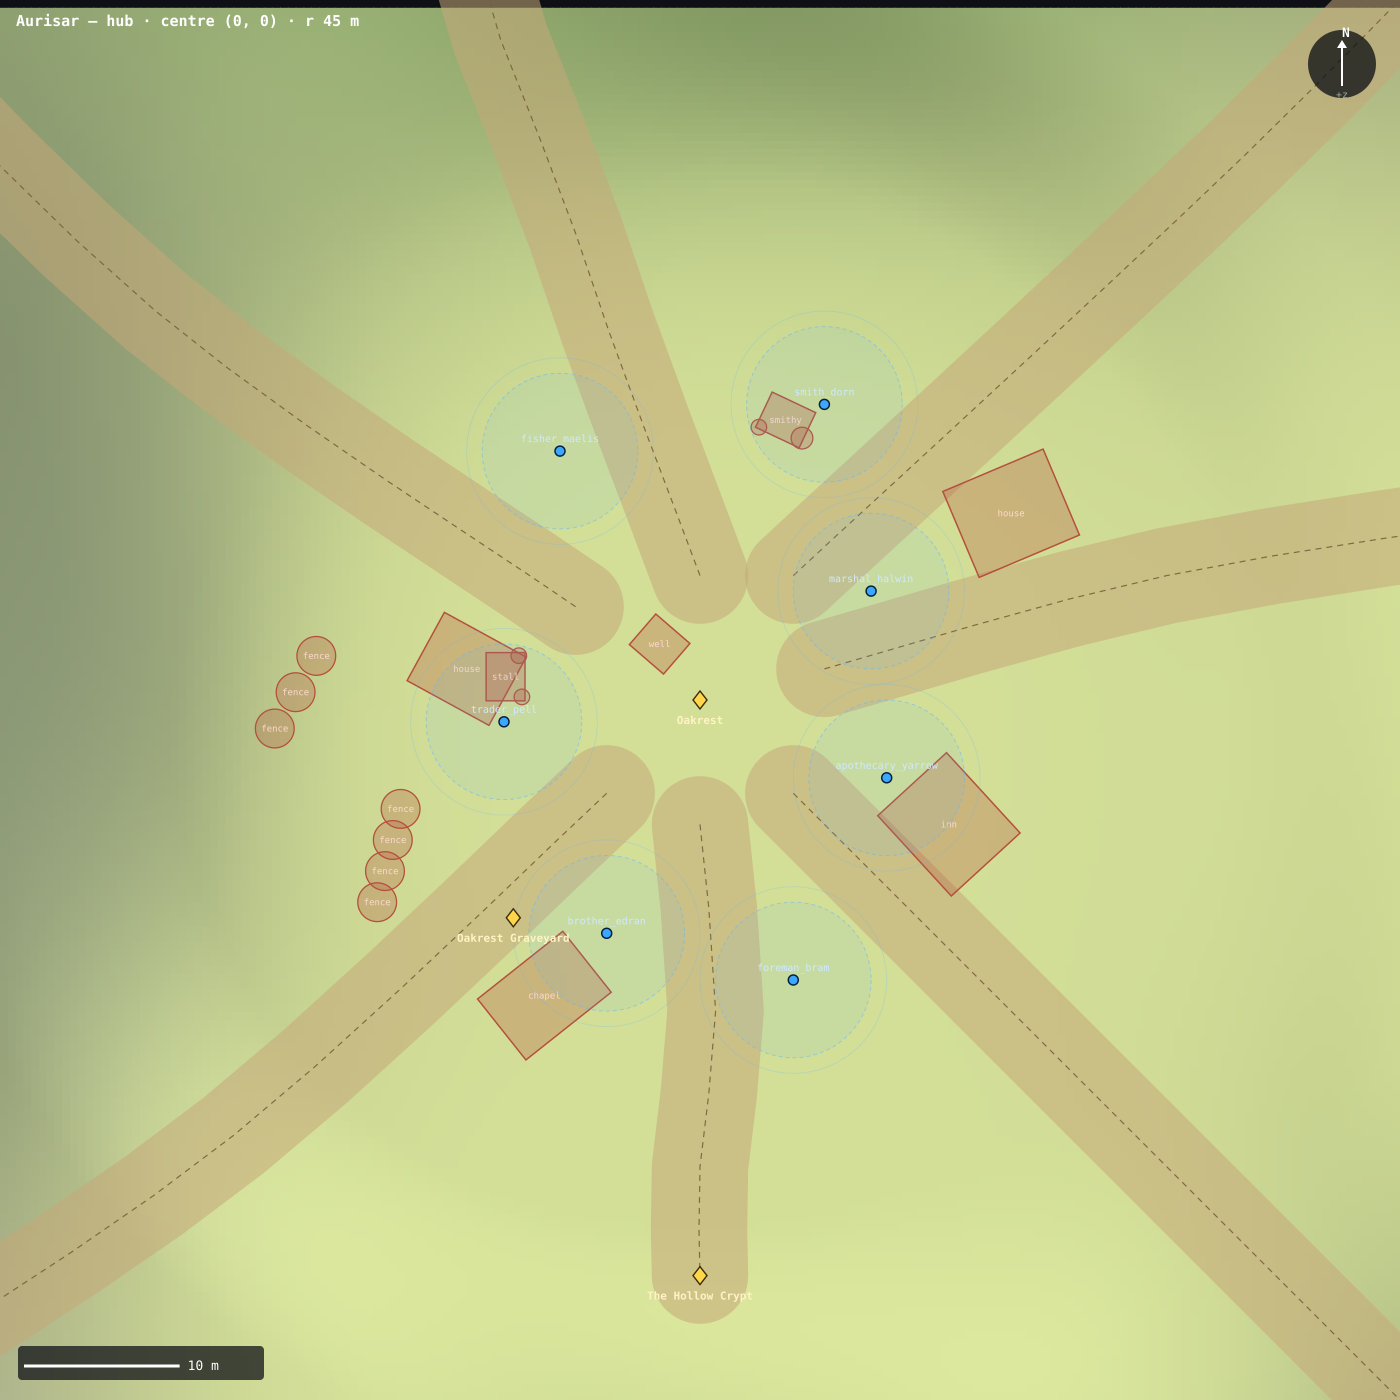
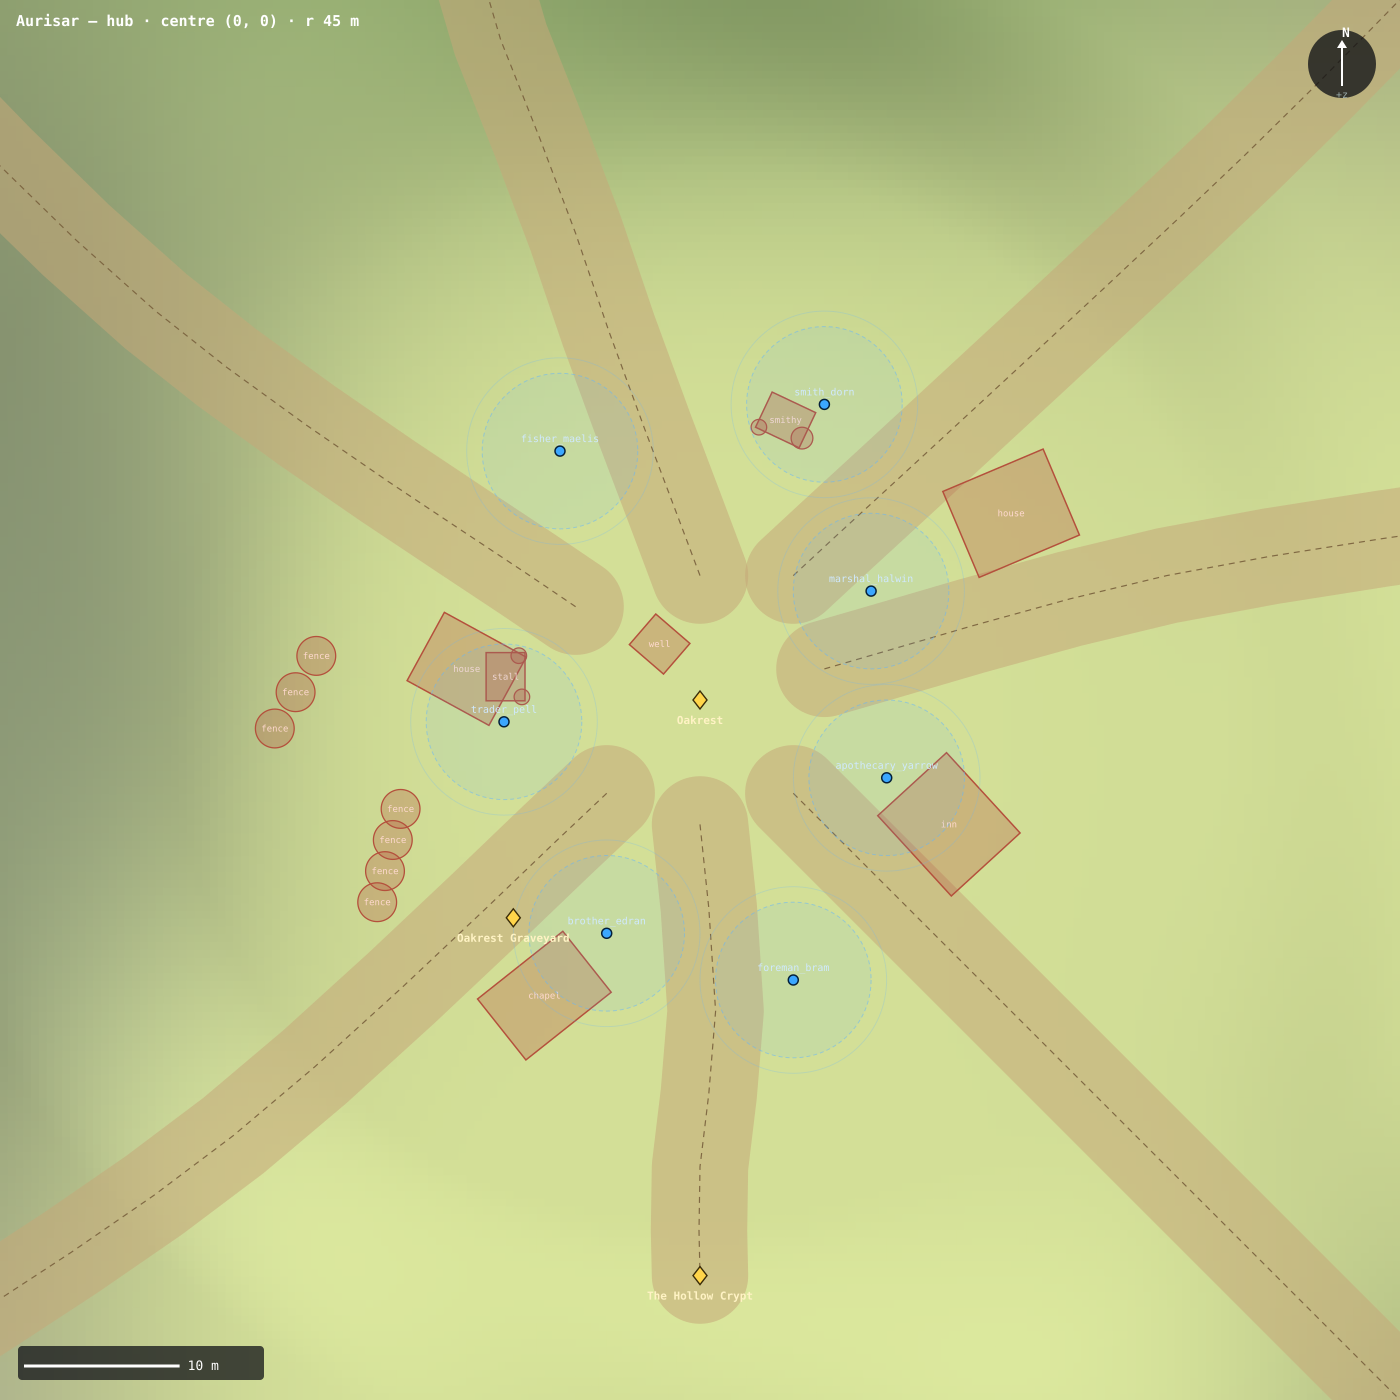
Regenerate client bindings for the published Batch E module (M8) (#284)

Changed region(s): [[0.0, 0.0, 1.0, 0.0307]]

diff --git a/src/features/world/module_bindings/index.ts b/src/features/world/module_bindings/index.ts
@@ -1,7 +1,7 @@
 // THIS FILE IS AUTOMATICALLY GENERATED BY SPACETIMEDB. EDITS TO THIS FILE
 // WILL NOT BE SAVED. MODIFY TABLES IN YOUR MODULE SOURCE CODE INSTEAD.
 
-// This was generated using spacetimedb cli version 2.5.0 (commit 19cbf2b219ac9fd7fdca6c5e2c61a3a2f0319515).
+// This was generated using spacetimedb cli version 2.7.0 (commit d220349adb7af7eefa810eb08a185609356b83f6).
 
 /* eslint-disable */
 /* tslint:disable */
@@ -93,6 +93,17 @@ const tablesSchema = __schema({
     constraints: [
     ],
   }, ChatMessageRow),
+  dungeonInstance: __table({
+    name: 'dungeon_instance',
+    indexes: [
+      { accessor: 'instanceId', name: 'dungeon_instance_instance_id_idx_btree', algorithm: 'btree', columns: [
+        'instanceId',
+      ] },
+    ],
+    constraints: [
+      { name: 'dungeon_instance_instance_id_key', constraint: 'unique', columns: ['instanceId'] },
+    ],
+  }, DungeonInstanceRow),
   mob: __table({
     name: 'mob',
     indexes: [
@@ -115,39 +126,6 @@ const tablesSchema = __schema({
       { name: 'player_identity_key', constraint: 'unique', columns: ['identity'] },
     ],
   }, PlayerRow),
-  playerQuest: __table({
-    name: 'player_quest',
-    indexes: [
-      { accessor: 'id', name: 'player_quest_id_idx_btree', algorithm: 'btree', columns: [
-        'id',
-      ] },
-    ],
-    constraints: [
-      { name: 'player_quest_id_key', constraint: 'unique', columns: ['id'] },
-    ],
-  }, PlayerQuestRow),
-  playerWallet: __table({
-    name: 'player_wallet',
-    indexes: [
-      { accessor: 'identity', name: 'player_wallet_identity_idx_btree', algorithm: 'btree', columns: [
-        'identity',
-      ] },
-    ],
-    constraints: [
-      { name: 'player_wallet_identity_key', constraint: 'unique', columns: ['identity'] },
-    ],
-  }, PlayerWalletRow),
-  playerItemStack: __table({
-    name: 'player_item_stack',
-    indexes: [
-      { accessor: 'id', name: 'player_item_stack_id_idx_btree', algorithm: 'btree', columns: [
-        'id',
-      ] },
-    ],
-    constraints: [
-      { name: 'player_item_stack_id_key', constraint: 'unique', columns: ['id'] },
-    ],
-  }, PlayerItemStackRow),
   playerChestOpened: __table({
     name: 'player_chest_opened',
     indexes: [
@@ -170,17 +148,39 @@ const tablesSchema = __schema({
       { name: 'player_equipped_id_key', constraint: 'unique', columns: ['id'] },
     ],
   }, PlayerEquippedRow),
-  dungeonInstance: __table({
-    name: 'dungeon_instance',
+  playerItemStack: __table({
+    name: 'player_item_stack',
     indexes: [
-      { accessor: 'instanceId', name: 'dungeon_instance_instance_id_idx_btree', algorithm: 'btree', columns: [
-        'instanceId',
+      { accessor: 'id', name: 'player_item_stack_id_idx_btree', algorithm: 'btree', columns: [
+        'id',
       ] },
     ],
     constraints: [
-      { name: 'dungeon_instance_instance_id_key', constraint: 'unique', columns: ['instanceId'] },
+      { name: 'player_item_stack_id_key', constraint: 'unique', columns: ['id'] },
     ],
-  }, DungeonInstanceRow),
+  }, PlayerItemStackRow),
+  playerQuest: __table({
+    name: 'player_quest',
+    indexes: [
+      { accessor: 'id', name: 'player_quest_id_idx_btree', algorithm: 'btree', columns: [
+        'id',
+      ] },
+    ],
+    constraints: [
+      { name: 'player_quest_id_key', constraint: 'unique', columns: ['id'] },
+    ],
+  }, PlayerQuestRow),
+  playerWallet: __table({
+    name: 'player_wallet',
+    indexes: [
+      { accessor: 'identity', name: 'player_wallet_identity_idx_btree', algorithm: 'btree', columns: [
+        'identity',
+      ] },
+    ],
+    constraints: [
+      { name: 'player_wallet_identity_key', constraint: 'unique', columns: ['identity'] },
+    ],
+  }, PlayerWalletRow),
 });
 
 /** The schema information for all reducers in this module. This is defined the same way as the reducers would have been defined in the server, except the body of the reducer is omitted in code generation. */
@@ -216,7 +216,7 @@ const proceduresSchema = __procedures(
 /** The remote SpacetimeDB module schema, both runtime and type information. */
 const REMOTE_MODULE = {
   versionInfo: {
-    cliVersion: "2.5.0" as const,
+    cliVersion: "2.7.0" as const,
   },
   tables: tablesSchema.schemaType.tables,
   reducers: reducersSchema.reducersType.reducers,

diff --git a/src/features/world/module_bindings/types.ts b/src/features/world/module_bindings/types.ts
@@ -40,6 +40,13 @@ export const ChatMessage = __t.object("ChatMessage", {
 });
 export type ChatMessage = __Infer<typeof ChatMessage>;
 
+export const DungeonInstance = __t.object("DungeonInstance", {
+  instanceId: __t.u64(),
+  dungeonId: __t.string(),
+  createdAt: __t.u64(),
+});
+export type DungeonInstance = __Infer<typeof DungeonInstance>;
+
 export const Mob = __t.object("Mob", {
   mobId: __t.u64(),
   mobType: __t.string(),
@@ -55,6 +62,11 @@ export const Mob = __t.object("Mob", {
   leashRadiusPx: __t.f32(),
   respawnSec: __t.u32(),
   lastAttackAt: __t.u64(),
+  dungeonInstanceId: __t.u64(),
+  floorYm: __t.f32(),
+  spawnedAt: __t.u64(),
+  lastAoeAt: __t.u64(),
+  enraged: __t.bool(),
 });
 export type Mob = __Infer<typeof Mob>;
 
@@ -68,6 +80,7 @@ export const MobRespawnQueueRow = __t.object("MobRespawnQueueRow", {
   id: __t.u64(),
   scheduledAt: __t.scheduleAt(),
   spawnNetId: __t.string(),
+  dungeonInstanceId: __t.u64(),
 });
 export type MobRespawnQueueRow = __Infer<typeof MobRespawnQueueRow>;
 
@@ -88,8 +101,42 @@ export const Player = __t.object("Player", {
   hp: __t.i32(),
   maxHp: __t.i32(),
   deadUntil: __t.u64(),
+  dungeonInstanceId: __t.u64(),
+  floorYm: __t.f32(),
+  lastMoveAt: __t.u64(),
 });
 export type Player = __Infer<typeof Player>;
+
+export const PlayerChestOpened = __t.object("PlayerChestOpened", {
+  id: __t.u64(),
+  owner: __t.identity(),
+  chestId: __t.u32(),
+});
+export type PlayerChestOpened = __Infer<typeof PlayerChestOpened>;
+
+export const PlayerEquipped = __t.object("PlayerEquipped", {
+  id: __t.u64(),
+  owner: __t.identity(),
+  slot: __t.string(),
+  itemId: __t.string(),
+});
+export type PlayerEquipped = __Infer<typeof PlayerEquipped>;
+
+export const PlayerItemStack = __t.object("PlayerItemStack", {
+  id: __t.u64(),
+  owner: __t.identity(),
+  itemId: __t.string(),
+  quantity: __t.u32(),
+});
+export type PlayerItemStack = __Infer<typeof PlayerItemStack>;
+
+export const PlayerProgress = __t.object("PlayerProgress", {
+  identity: __t.identity(),
+  fitnessXp: __t.u64(),
+  fitnessXpBaseline: __t.u64(),
+  worldLevel: __t.u32(),
+});
+export type PlayerProgress = __Infer<typeof PlayerProgress>;
 
 export const PlayerQuest = __t.object("PlayerQuest", {
   id: __t.u64(),
@@ -107,4 +154,11 @@ export const PlayerRespawnQueueRow = __t.object("PlayerRespawnQueueRow", {
   identity: __t.identity(),
 });
 export type PlayerRespawnQueueRow = __Infer<typeof PlayerRespawnQueueRow>;
+
+export const PlayerWallet = __t.object("PlayerWallet", {
+  identity: __t.identity(),
+  copper: __t.u64(),
+  imported: __t.bool(),
+});
+export type PlayerWallet = __Infer<typeof PlayerWallet>;
 

diff --git a/src/features/world/systems/propColliders.test.js b/src/features/world/systems/propColliders.test.js
@@ -102,10 +102,12 @@ describe('the live settlement', () => {
   });
 
   it('leaves the exact respawn point walkable', () => {
-    // The server respawns every death to world (0,0), and the well at (0,2)
-    // is 2.9 m deep — 0.20 m of clearance once the player radius is added.
-    // If this ever fails, players materialise inside the well and the
-    // walk-out escape becomes the only thing saving them.
+    // The server respawns every death to world (0,0). The well is the
+    // nearest solid to that point (position is authored in props.ts, not
+    // hardcoded here, so this can't go stale the way a written-out
+    // distance/clearance figure would). If this ever fails, players
+    // materialise inside a solid and the walk-out escape becomes the only
+    // thing saving them.
     expect(P.blocked(0, 0)).toBe(false);
   });
 
@@ -162,11 +164,11 @@ describe('rotation inverse (review H1 regression)', () => {
     expect(P.blocked(inside.x, inside.z)).toBe(true);
     expect(P.blocked(outside.x, outside.z)).toBe(false);
     // The MIRRORED bug blocked the reflection instead — assert a point the old
-    // code wrongly blocked (reflect local z) is open.
+    // code wrongly blocked (reflect local z) is open. (7x6 is non-square, so
+    // the mirrored point genuinely falls outside the correctly-rotated box —
+    // no distance guard needed; a prior version of this guard was inverted
+    // and silently skipped the assertion it existed to run.)
     const mirrored = localToWorld(20, 12, 0.4, 3.0, 2.5);
-    const dx = mirrored.x - 20, dz = mirrored.z - 12;
-    if (Math.hypot(dx, dz) > Math.hypot(3.5 + 0.35, 3 + 0.35)) {
-      expect(P.blocked(mirrored.x, mirrored.z)).toBe(false);
-    }
+    expect(P.blocked(mirrored.x, mirrored.z)).toBe(false);
   });
 });

diff --git a/src/features/world/systems/PropsSystem.js b/src/features/world/systems/PropsSystem.js
@@ -14,6 +14,7 @@
 
 import { ZONE1_PROPS } from '../content/zones/zone1/props';
 import propsManifest from '../../../../public/assets/manifest/props.manifest.json';
+import { propRand as rand } from './propFootprints';
 
 const BASE = propsManifest.base; // '/assets/props/'
 
@@ -25,11 +26,6 @@ const MANIFEST = Object.fromEntries(
 // House heights from the reference layout (houseHeight table).
 const HOUSE_KINDS = ['house_1', 'house_2', 'blacksmith'];
 const HOUSE_HEIGHT = { house_1: 8.0, house_2: 7.6, inn: 7.6, blacksmith: 6.6 };
-
-function rand(x, z) {
-  const h = Math.sin(x * 12.9898 + z * 78.233) * 43758.5453;
-  return h - Math.floor(h);
-}
 
 export class PropsSystem {
   constructor(scene, worldgen) {

diff --git a/src/features/world/module_bindings/mob_table.ts b/src/features/world/module_bindings/mob_table.ts
@@ -26,7 +26,7 @@ export default __t.row({
   respawnSec: __t.u32().name("respawn_sec"),
   lastAttackAt: __t.u64().name("last_attack_at"),
   dungeonInstanceId: __t.u64().name("dungeon_instance_id"),
-  floorYM: __t.f32().name("floor_ym"),
+  floorYm: __t.f32().name("floor_ym"),
   spawnedAt: __t.u64().name("spawned_at"),
   lastAoeAt: __t.u64().name("last_aoe_at"),
   enraged: __t.bool(),

diff --git a/src/features/world/module_bindings/player_table.ts b/src/features/world/module_bindings/player_table.ts
@@ -28,5 +28,6 @@ export default __t.row({
   maxHp: __t.i32().name("max_hp"),
   deadUntil: __t.u64().name("dead_until"),
   dungeonInstanceId: __t.u64().name("dungeon_instance_id"),
-  floorYM: __t.f32().name("floor_y_m"),
+  floorYm: __t.f32().name("floor_ym"),
+  lastMoveAt: __t.u64().name("last_move_at"),
 });

diff --git a/src/features/world/module_bindings/dungeon_instance_table.ts b/src/features/world/module_bindings/dungeon_instance_table.ts
@@ -11,7 +11,7 @@ import {
 } from "spacetimedb";
 
 export default __t.row({
-  instanceId: __t.u64().primaryKey().autoInc().name("instance_id"),
+  instanceId: __t.u64().primaryKey().name("instance_id"),
   dungeonId: __t.string().name("dungeon_id"),
   createdAt: __t.u64().name("created_at"),
 });

diff --git a/src/features/world/module_bindings/move_player_reducer.ts b/src/features/world/module_bindings/move_player_reducer.ts
@@ -15,5 +15,5 @@ export default {
   y: __t.f32(),
   direction: __t.u8(),
   isMoving: __t.bool(),
-  floorYM: __t.f32(),
+  floorYm: __t.f32(),
 };

diff --git a/docs/castle_ashwood.md b/docs/castle_ashwood.md
@@ -19,7 +19,7 @@ SpacetimeDB `movePlayer` validates interior moves with level-aware `surfaceAt` (
 - **`dungeonInstance`** table + `player.dungeonInstanceId` / `mob.dungeonInstanceId`
 - Instance mobs seed from `castleAshwood.generated.ts` on first member entry
 - Client syncs interior presentation from the player row
-- **`player.floorYM`** persisted for reconnect + server surfaceAt reference
+- **`player.floorYm`** persisted for reconnect + server surfaceAt reference
 - **Interior mob AI (phase 3)** — dungeon mobs use nav wall-slide; aggro/melee require same instance + floor
 - **minLevel gating (phase 4)** — private `playerProgress` + `syncProgress`; dungeon entry and quests enforce level
 - **Gorrak treasury quest** — `q_ringleader` kill scoped to `ca_boss` spawn in Castle Ashwood instance
